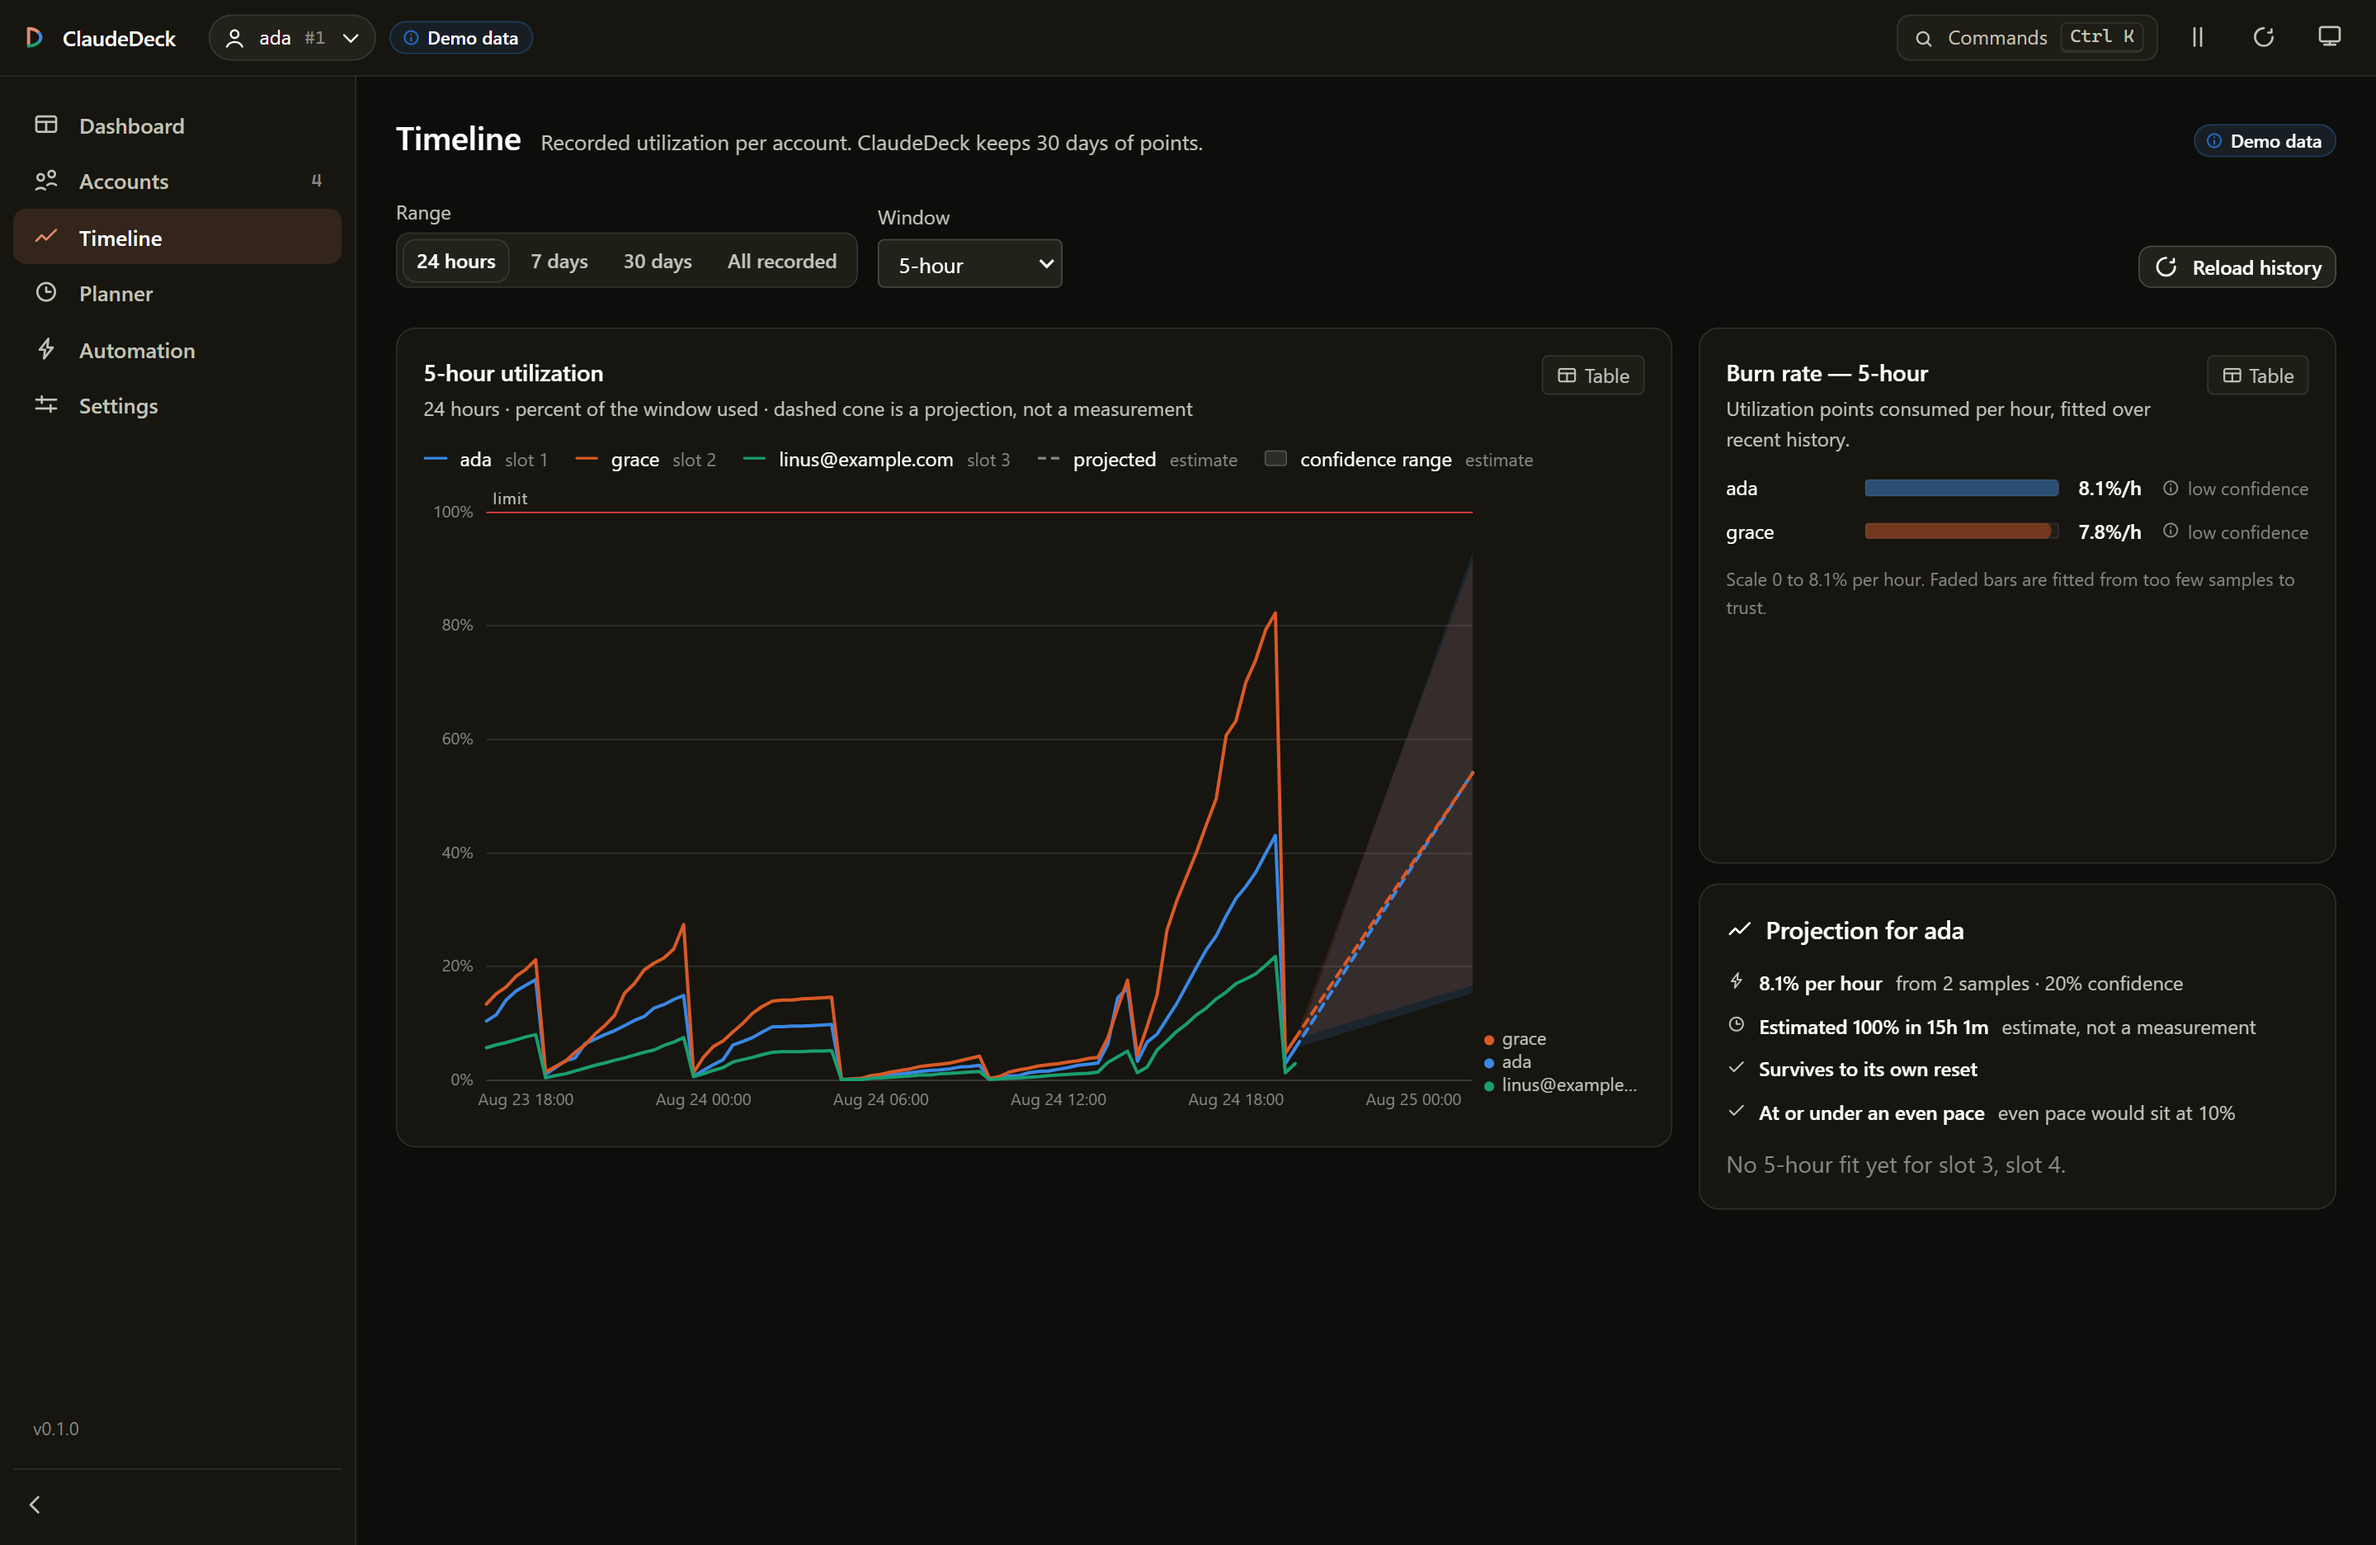
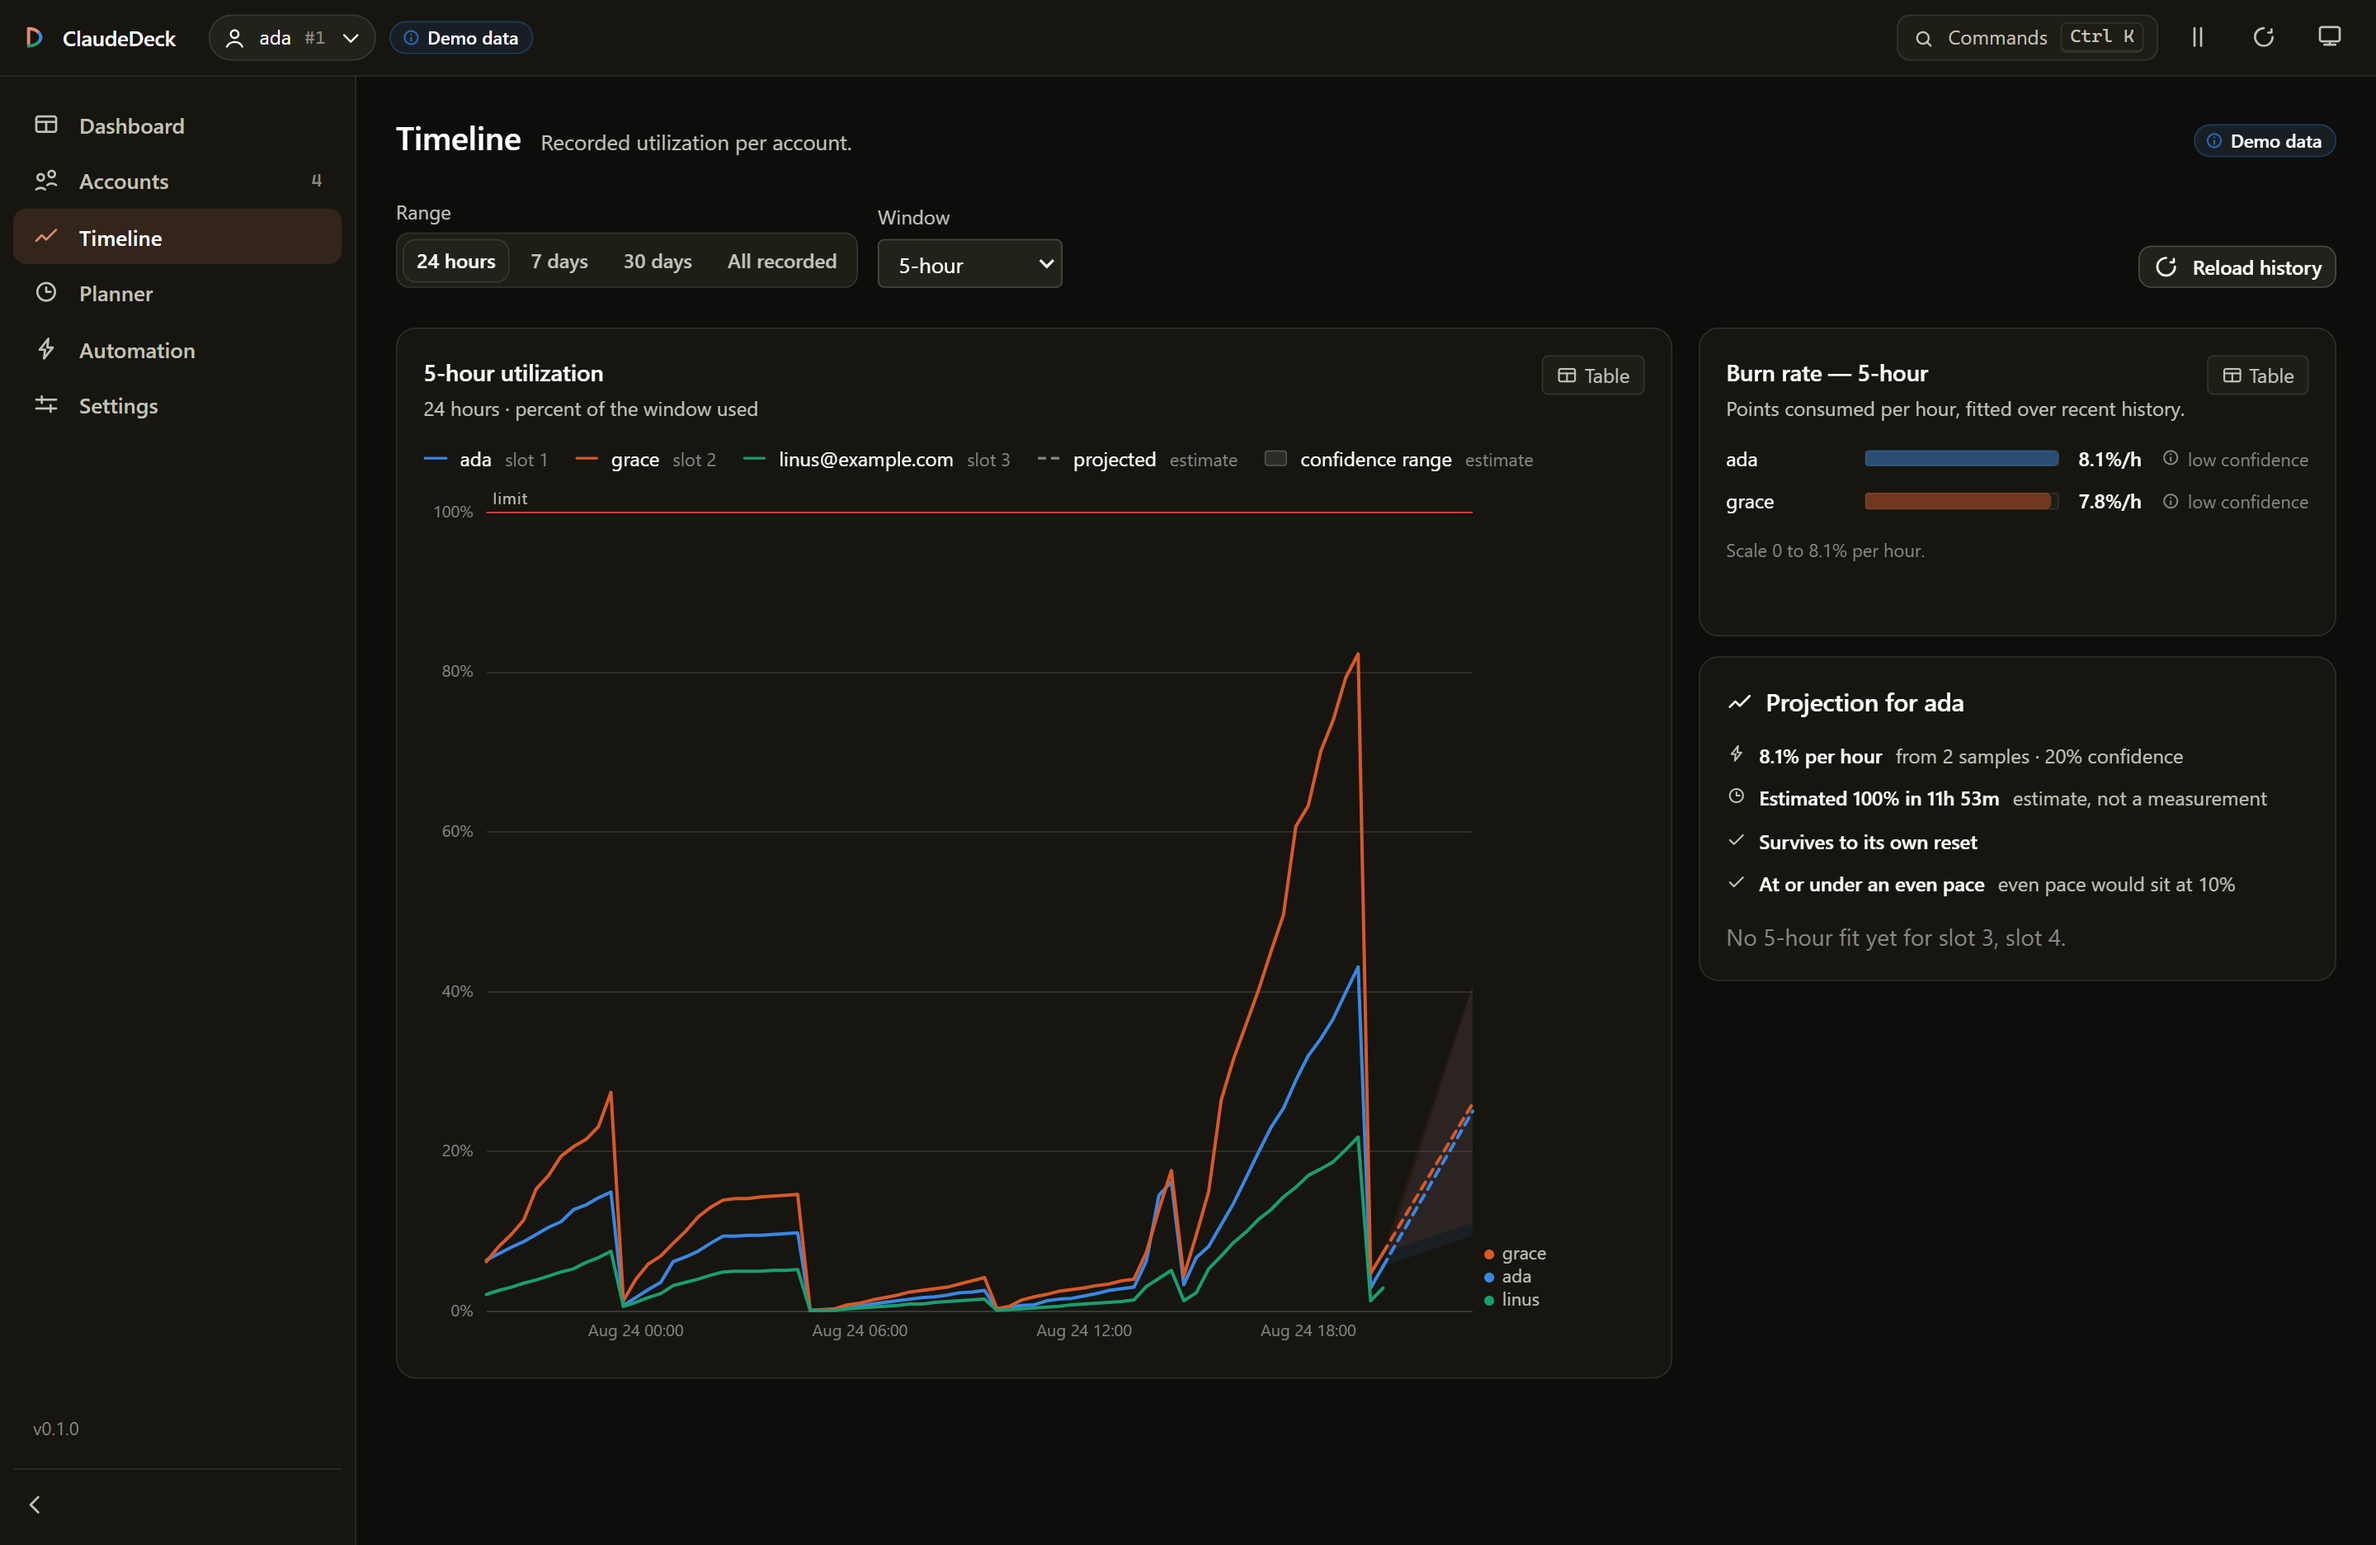
fix(timeline): stop an estimate from rescaling the measurements
Four defects, all making the chart harder to read than the data warranted.

**A projection was setting the y-axis.** `peak` folded `projection.upper` into
the axis maximum, and a low-confidence fit fans out by up to +/-90%. So a
2-sample, 20%-confidence estimate pushed the axis past 100% and squashed every
real reading into the lower half of the plot — an estimate rescaling the
measurements drawn beside it. Only observations set the scale now. The cone is
clamped to 0..100 instead, which it should have been regardless: utilization
above 100% does not exist, because 100% is the point where nothing more can be
sent.

**The projection annexed the chart.** Its horizon was a flat 6 hours, so on a
24-hour range the axis actually spanned 30 and the subtitle saying "24 hours"
was the chart contradicting its own label. Capped at a tenth of the observed
span, and the cone's wash dropped from 14 to 9 so the thing that was measured
outweighs the thing that was guessed.

**Series labels were truncated to the useless half.** The right-edge labels
printed the full identity, so an account became "linus@example…" — an ellipsis
exactly where the distinguishing part was. They now use the local part, which is
what tells accounts apart in practice; the legend above still carries the full
name.

**Two cards were mostly empty.** `ChartFrame` defaults to a 220px plot, which is
right for a plot and wrong for a four-row bar list, so the burn-rate card left
[…]

diff --git a/src/renderer/charts/UsageTimeline.tsx b/src/renderer/charts/UsageTimeline.tsx
@@ -234,6 +234,19 @@ function medianGap(points: readonly TimelinePoint[]): number {
 // Component
 // ---------------------------------------------------------------------------
 
+/**
+ * A name that fits the label gutter.
+ *
+ * These labels used to render the series' full identity, so an email became
+ * "linus@example…" — an ellipsis where the useful part was. The local part is
+ * what distinguishes accounts in practice, and the legend above still carries
+ * the full name for anyone who needs it.
+ */
+function shortSeriesName(name: string): string {
+  const local = name.includes('@') ? (name.split('@')[0] ?? name) : name;
+  return local.length > 12 ? `${local.slice(0, 11)}…` : local;
+}
+
 export function UsageTimeline({
   series,
   windowKey,
@@ -276,7 +289,26 @@ export function UsageTimeline({
 
   const projections = useMemo<Projection[]>(() => {
     if (forecastBySeries.size === 0) return [];
-    const horizonMs = Math.max(0.25, projectionHours) * MS_PER_HOUR;
+    // Capped at a tenth of the observed span, for two reasons. The subtitle
+    // says "24 hours"; a 6-hour projection on top of it made the axis span 30,
+    // which is the chart contradicting its own label. And a cone is an estimate
+    // -- when it is the largest shape on screen it out-shouts the measurements
+    // it is drawn beside, which is backwards for something fitted from two
+    // samples at 20% confidence.
+    const observedSpanMs = (() => {
+      let lo = Number.POSITIVE_INFINITY;
+      let hi = Number.NEGATIVE_INFINITY;
+      for (const entry of drawn) {
+        for (const point of entry.points) {
+          if (point.t < lo) lo = point.t;
+          if (point.t > hi) hi = point.t;
+        }
+      }
+      return Number.isFinite(lo) && Number.isFinite(hi) ? Math.max(0, hi - lo) : 0;
+    })();
+    const requestedMs = Math.max(0.25, projectionHours) * MS_PER_HOUR;
+    const horizonMs =
+      observedSpanMs > 0 ? Math.min(requestedMs, observedSpanMs * 0.1) : requestedMs;
     const out: Projection[] = [];
     for (const entry of drawn) {
       const forecast = forecastBySeries.get(entry.key);
@@ -308,9 +340,13 @@ export function UsageTimeline({
         seriesKey: entry.key,
         color: entry.color,
         from: anchor,
-        to: { t: end, pct: anchor.pct + pctPerHour * hours },
-        upper: anchor.pct + pctPerHour * hours * (1 + spread),
-        lower: anchor.pct + pctPerHour * hours * (1 - spread),
+        to: { t: end, pct: Math.min(100, anchor.pct + pctPerHour * hours) },
+        // Clamped to the axis. Utilization over 100% does not exist -- that is
+        // the point at which nothing more can be sent -- so a cone drawn above
+        // it would be claiming something impossible and would need the axis
+        // stretched to show it.
+        upper: Math.min(100, anchor.pct + pctPerHour * hours * (1 + spread)),
+        lower: Math.max(0, anchor.pct + pctPerHour * hours * (1 - spread)),
         pctPerHour,
         confidence,
       });
@@ -331,12 +367,17 @@ export function UsageTimeline({
   const projectionEnd = projections.reduce((max, projection) => Math.max(max, projection.to.t), lastTime);
   const spanMs = Math.max(0, projectionEnd - firstTime);
 
+  // Only *observations* set the scale. A low-confidence fit fans out by up to
+  // +/-90%, so letting the cone's upper bound into this pushed the axis past
+  // 100% and squashed every real reading into the lower half of the plot -- an
+  // estimate rescaling the measurements it is drawn beside. The cone is clamped
+  // to the axis instead (see `coneTop`); above 100% it means nothing anyway,
+  // because 100% is where you stop being able to send anything.
   const peak = useMemo(() => {
     let max = 0;
     for (const entry of drawn) for (const point of entry.points) max = Math.max(max, point.pct);
-    for (const projection of projections) max = Math.max(max, projection.to.pct, projection.upper);
     return max;
-  }, [drawn, projections]);
+  }, [drawn]);
   const yMax = Math.max(100, Math.ceil(peak / 10) * 10);
 
   const x = timeScale([firstTime, projectionEnd], [padding.left, padding.left + plotWidth]);
@@ -573,7 +614,7 @@ export function UsageTimeline({
                 key={`cone-${projection.seriesKey}`}
                 className="cd-cone"
                 points={`${x0},${y.map(projection.from.pct)} ${x1},${y.map(projection.upper)} ${x1},${y.map(projection.lower)}`}
-                style={{ fill: seriesWash(projection.color, 14) }}
+                style={{ fill: seriesWash(projection.color, 9) }}
               />
             );
           })}
@@ -649,7 +690,7 @@ export function UsageTimeline({
                     style={{ fill: label.color }}
                   />
                   <text className="cd-direct-label" x={padding.left + plotWidth + 18} y={label.y}>
-                    {label.name.length > 14 ? `${label.name.slice(0, 13)}…` : label.name}
+                    {shortSeriesName(label.name)}
                   </text>
                 </g>
               ))

diff --git a/src/renderer/views/Timeline.tsx b/src/renderer/views/Timeline.tsx
@@ -318,7 +318,7 @@ export function Timeline() {
       <header className="cd-view-head">
         <h1 className="cd-h1">Timeline</h1>
         <p className="cd-view-sub">
-          Recorded utilization per account. ClaudeDeck keeps {state.settings.historyRetentionDays} days of points.
+          Recorded utilization per account.
         </p>
         <span className="cd-spacer" />
         {state.demoMode ? <Badge tone="info">Demo data</Badge> : null}
@@ -396,7 +396,7 @@ export function Timeline() {
             <EmptyState
               icon="activity"
               title={`Nothing recorded for the ${windowLabel} window in this range`}
-              description="A point is written every time ClaudeDeck polls usage. Widen the range, pick another window, or refresh usage from the title bar to start the record."
+              description="A point is written each time ClaudeDeck polls. Widen the range, or refresh from the title bar."
             />
           ) : (
             <ChartFrame
@@ -405,17 +405,17 @@ export function Timeline() {
                   ? `${windowLabel} utilization — ${series[0]?.alias ?? series[0]?.email ?? 'one account'}`
                   : `${windowLabel} utilization`
               }
-              subtitle={`${rangeLabel} · percent of the window used${
-                coneForecasts.length > 0 ? ' · dashed cone is a projection, not a measurement' : ''
-              }`}
+              // The legend already marks the cone "estimate"; repeating it here
+              // spent a line saying what the chart says about itself.
+              subtitle={`${rangeLabel} · percent of the window used`}
               tableRows={tableRows}
-              height={380}
+              height={520}
             >
               <UsageTimeline
                 series={series}
                 windowKey={windowKey}
                 forecasts={coneForecasts}
-                height={380}
+                height={520}
               />
             </ChartFrame>
           )}
@@ -431,13 +431,17 @@ export function Timeline() {
             <EmptyState
               icon="info"
               title="No burn rate for this window yet"
-              description="A rate needs at least two observations inside the same window. Keep ClaudeDeck polling and this fills in."
+              description="A rate needs two readings in the same window. This fills in as ClaudeDeck polls."
             />
           ) : (
             <ChartFrame
               title={`Burn rate — ${windowLabel}`}
-              subtitle="Utilization points consumed per hour, fitted over recent history."
+              subtitle="Points consumed per hour, fitted over recent history."
               tableRows={burnTable}
+              // ChartFrame's 220px default is sized for a plot; a short list of
+              // bars left most of the card empty. One row per account plus the
+              // scale note is all the room this needs.
+              height={Math.max(84, burnRows.length * 38 + 24)}
             >
               <BurnRateBars rows={burnRows} />
             </ChartFrame>

diff --git a/src/renderer/charts/BurnRateBars.tsx b/src/renderer/charts/BurnRateBars.tsx
@@ -84,7 +84,6 @@ export function BurnRateBars({ rows, lowConfidence = 0.5, className }: BurnRateB
     );
   }
 
-  const anyLow = prepared.some((row) => row.low);
 
   return (
     <div className={cx('cd-burn', className)}>
@@ -116,8 +115,9 @@ export function BurnRateBars({ rows, lowConfidence = 0.5, className }: BurnRateB
         })}
       </ul>
       <p className="cd-burn-foot">
+        {/* Each low-confidence row already carries its own labelled chip, so
+            repeating the explanation here was a second sentence for one fact. */}
         {`Scale 0 to ${formatPct(scaleMax, 1)} per hour.`}
-        {anyLow ? ' Faded bars are fitted from too few samples to trust.' : ''}
       </p>
       <ChartTableFallback table={table} />
     </div>
